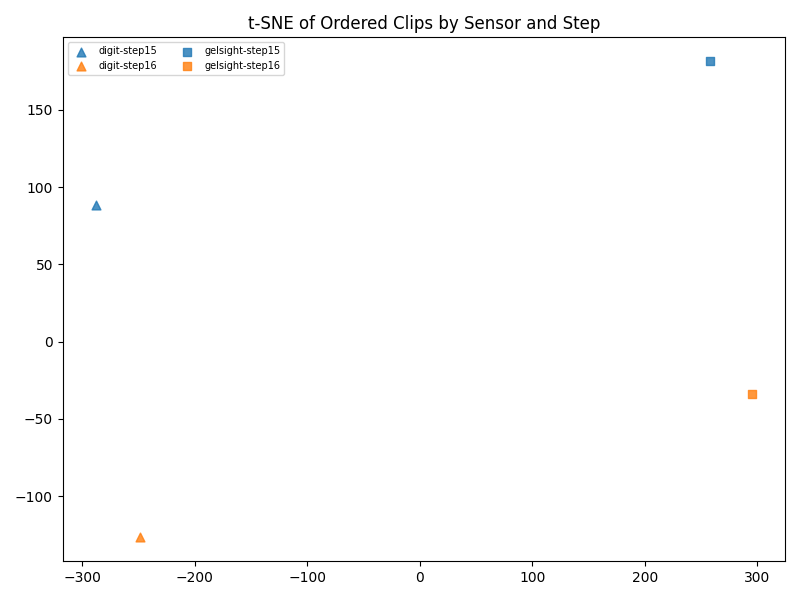
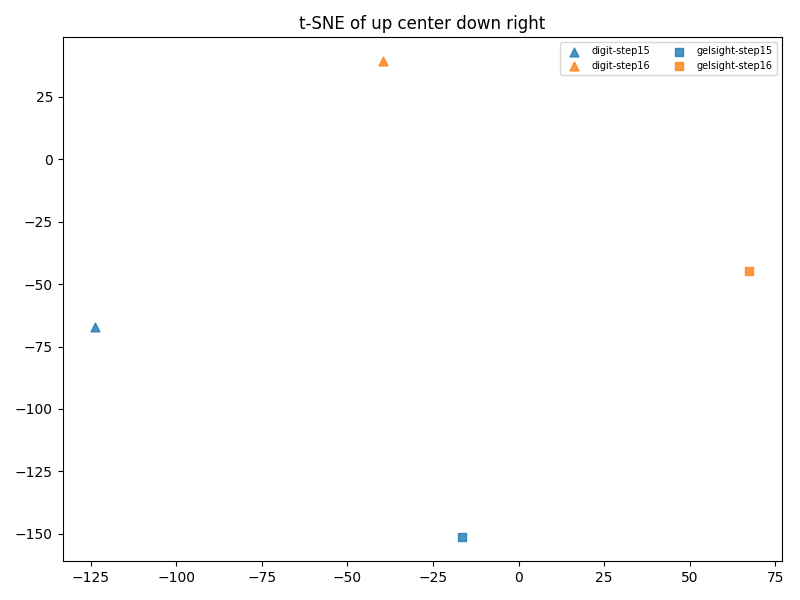
a

diff --git a/scripts/mydatatsne.py b/scripts/mydatatsne.py
@@ -150,7 +150,7 @@ with open(ordered_meta_path, "r") as f:
         ordered_labels.append(row["sensor"])
         ordered_steps.append(row["sequence"].split("_")[-1])
 
-X_ordered_2d = TSNE(n_components=2, random_state=0, perplexity=2).fit_transform(X_ordered)
+X_ordered_2d = TSNE(n_components=2, random_state=0, perplexity=3).fit_transform(X_ordered)
 print(f"The shape after the ordered-step fit transform {X_ordered_2d.shape}")
 
 step_colors = {
@@ -161,13 +161,12 @@ step_colors = {
 plt.figure(figsize=(8, 6))
 for sensor in sorted(set(ordered_labels)):
     for step in ["15", "16"]:
-        idx = [
-            i
-            for i, (sensor_label, step_label) in enumerate(
-                zip(ordered_labels, ordered_steps)
-            )
-            if sensor_label == sensor and step_label == step
-        ]
+        idx = []
+        for i, (sensor_label, step_label) in enumerate(
+            zip(ordered_labels, ordered_steps)
+        ):
+            if sensor_label == sensor and step_label == step:
+                idx.append(i)
         if not idx:
             continue
         plt.scatter(
@@ -181,7 +180,7 @@ for sensor in sorted(set(ordered_labels)):
         )
 
 plt.legend(ncol=2, fontsize=7)
-plt.title("t-SNE of Ordered Clips by Sensor and Step")
+plt.title("t-SNE of up center down right")
 plt.tight_layout()
 plt.savefig(ordered_movement_out_path)
 print(f"Saved to {ordered_movement_out_path}")
